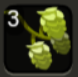
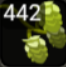
UpdatePaysan
Add lin

diff --git a/Dofus/Métier/Blé.py b/Dofus/Métier/Blé.py
@@ -103,29 +103,42 @@ while True:
         pyautogui.moveTo(1500, 720, duration=random.uniform(0.1,0.2))
 
         # ----Verification inventaire----
-        if nombre == BOUCLE:
-            while pyautogui.locateOnScreen("Ressource_Flo/Alerte_full.PNG"):
-                # sell("Ressource_Flo/Ble_inventaire.png")
-                # sell("Ressource_Flo/Orge_inventaire.png")
-                # sell("Ressource_Flo/Avoine_inventaire.png")
-                sell("Ressource_Flo/Houblon_inventaire.png")
-        elif not nombre == BOUCLE:
-            print("Rien a vendre")
+        if nombre == 5:
+            print(nombre)
+            souris("../Ressource/Inventaire.png")
+            souris("Ressource_Flo/Alerte_full.PNG")
+            full = pyautogui.locateOnScreen("Ressource_Flo/Alerte_full.PNG", confidence=0.8)
+            if full:
+                print("Trouvé")
+                while full:
+                    # sell("Ressource_Flo/Ble_inventaire.png")
+                    # sell("Ressource_Flo/Orge_inventaire.png")
+                    # sell("Ressource_Flo/Avoine_inventaire.png")
+                    # sell("Ressource_Flo/Houblon_inventaire.png")
+                    sell("Ressource_Flo/Lin_inventaire.png")
+                    souris("../Ressource/Inventaire.png")
+                    full = pyautogui.locateOnScreen("Ressource_Flo/Alerte_full.PNG", confidence=0.8)
+                    if not full:
+                        souris("../Combat/Quit.png")
 
         # ----Identification----
-        ble = pyautogui.locateOnScreen("Ressource_Flo/Ble.PNG", confidence=0.7)
-        orge = pyautogui.locateOnScreen("Ressource_Flo/Orge.PNG", confidence=0.7)
-        avoine = pyautogui.locateOnScreen("Ressource_Flo/Avoine.PNG", confidence=0.7)
-        houblon = pyautogui.locateOnScreen("Ressource_Flo/Houblon.PNG", confidence=0.7)
+        ble = pyautogui.locateOnScreen("Ressource_Flo/Ble.PNG", confidence=0.8)
+        orge = pyautogui.locateOnScreen("Ressource_Flo/Orge.PNG", confidence=0.8)
+        avoine = pyautogui.locateOnScreen("Ressource_Flo/Avoine.PNG", confidence=0.8)
+        houblon = pyautogui.locateOnScreen("Ressource_Flo/Houblon.PNG", confidence=0.8)
+        lin = pyautogui.locateOnScreen("Ressource_Flo/Lin.PNG", confidence=0.7)
+
         coupe1 = pyautogui.locateOnScreen("Ressource_Flo/Ble_coupe.PNG", confidence=0.6)
         # coupe2 = pyautogui.locateOnScreen("Ressource_Flo/Orge_coupe.PNG", confidence=0.6)
         coupe3 = pyautogui.locateOnScreen("Ressource_Flo/Avoine_coupe.PNG", confidence=0.6)
         coupe4 = pyautogui.locateOnScreen("Ressource_Flo/Houblon_coupe.PNG", confidence=0.6)
+        coupe5 = pyautogui.locateOnScreen("Ressource_Flo/Lin_coupe.PNG", confidence=0.6)
 
 
         # ----Détection de la récolte----
         print("Selection du céréales")
-        pyautogui.moveTo(ble or orge or avoine or houblon)
+        # pyautogui.moveTo(ble or orge or avoine or houblon or lin)
+        pyautogui.moveTo(lin)
         pyautogui.mouseDown()
         time.sleep(random.uniform(0.1,0.2))
         vide = pyautogui.locateOnScreen("Ressource_Flo/vide.PNG", confidence=0.8)
@@ -163,33 +176,45 @@ while True:
             print(f"Recolte Houblon : {i}")
             level_up()
             combat(2108, 416)
-        elif coupe1 or coupe3 or coupe4 or vide:
+        elif lin and not vide:
+            i += 1
             pyautogui.mouseUp()
-            houblon = pyautogui.locateOnScreen("Ressource_Flo/Houblon.PNG", confidence=0.7)
-            pyautogui.moveTo(houblon)
-            if houblon:
+            pyautogui.click()
+            time.sleep(temps)
+            print(f"Recolte Lin : {i}")
+            level_up()
+            combat(2108, 416)
+        elif coupe1 or coupe3 or coupe4 or coupe5 or vide:
+            pyautogui.mouseUp()
+            lin = pyautogui.locateOnScreen("Ressource_Flo/Lin.PNG", confidence=0.7)
+            pyautogui.moveTo(lin)
+            if lin:
                 print("Erreur, Selection nouveau céréale")
 
             # ----Changement de carte----
             map1 = pyautogui.locateOnScreen("Ressource_Flo/Map1.PNG", confidence=0.8)
             # map2 = pyautogui.locateOnScreen("Ressource_Flo/Map2.PNG", confidence=0.8)
             # map3 = pyautogui.locateOnScreen("Ressource_Flo/Map3.PNG", confidence=0.8)
-            if not houblon:
+            if not lin:
                 print("Rien trouvé")
                 pyautogui.moveTo(1500,720)
                 pyautogui.mouseUp()
                 if map1:
                     print("Map 1")
-                    for carte in range(5):
-                        pyautogui.moveTo(2045, 720)
-                        pyautogui.click()
-                        time.sleep(7)
+                    pyautogui.moveTo(2045, 720)
+                    pyautogui.click()
+                    time.sleep(7)
+                    pyautogui.moveTo(986, 1363)
+                    pyautogui.click()
+                    time.sleep(7)
                     print("Changement de carte")
                 elif not map1:
                     print("Map 2")
-                    for carte in range(5):
-                        pyautogui.moveTo(90, 720)
-                        pyautogui.click()
-                        time.sleep(7)
+                    pyautogui.moveTo(949, 59)
+                    pyautogui.click()
+                    time.sleep(7)
+                    pyautogui.moveTo(101, 713)
+                    pyautogui.click()
+                    time.sleep(7)
                     print("Changement de carte")
 

diff --git a/Dofus/Métier/Test.py b/Dofus/Métier/Test.py
@@ -34,10 +34,16 @@ def sell(x):
 #     souris("../Combat/Quit.png")
 
 souris("../Ressource/Inventaire.png")
-# ----Verification inventaire----
-while pyautogui.locateOnScreen("Ressource_Flo/Alerte_full.PNG", confidence=0.7):
-    souris("../Ressource/Inventaire.png")
-    # sell("Ressource_Flo/Ble_inventaire.png")
-    # sell("Ressource_Flo/Orge_inventaire.png")
-    # sell("Ressource_Flo/Avoine_inventaire.png")
-    sell("Ressource_Flo/Houblon_inventaire.png")
+souris("Ressource_Flo/Alerte_full.PNG")
+full = pyautogui.locateOnScreen("Ressource_Flo/Alerte_full.PNG", confidence=0.8)
+if full:
+    print("Trouvé")
+    while full:
+        # sell("Ressource_Flo/Ble_inventaire.png")
+        # sell("Ressource_Flo/Orge_inventaire.png")
+        # sell("Ressource_Flo/Avoine_inventaire.png")
+        sell("Ressource_Flo/Houblon_inventaire.png")
+        souris("../Ressource/Inventaire.png")
+        full = pyautogui.locateOnScreen("Ressource_Flo/Alerte_full.PNG", confidence=0.8)
+        if not full:
+            souris("../Combat/Quit.png")
